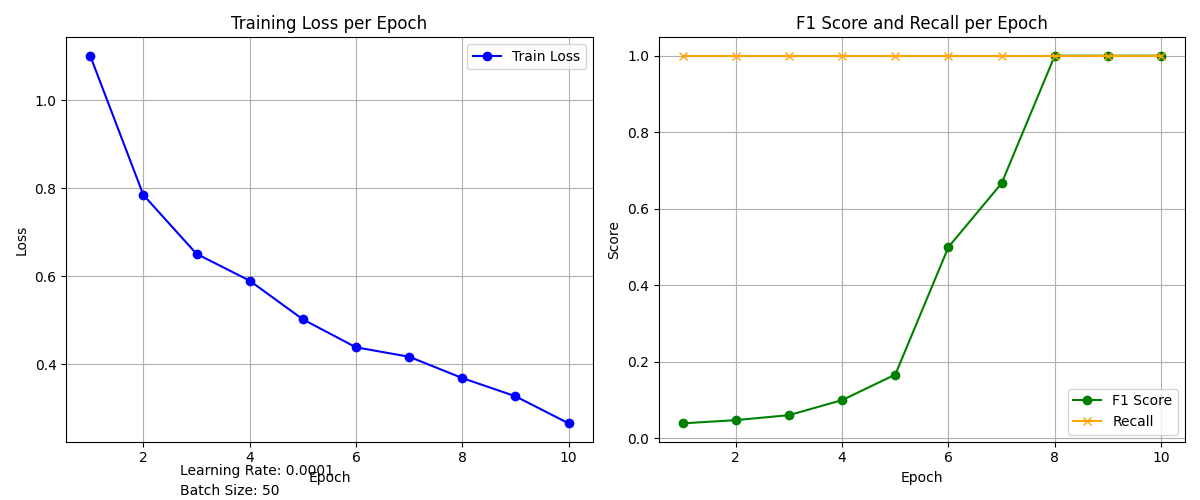
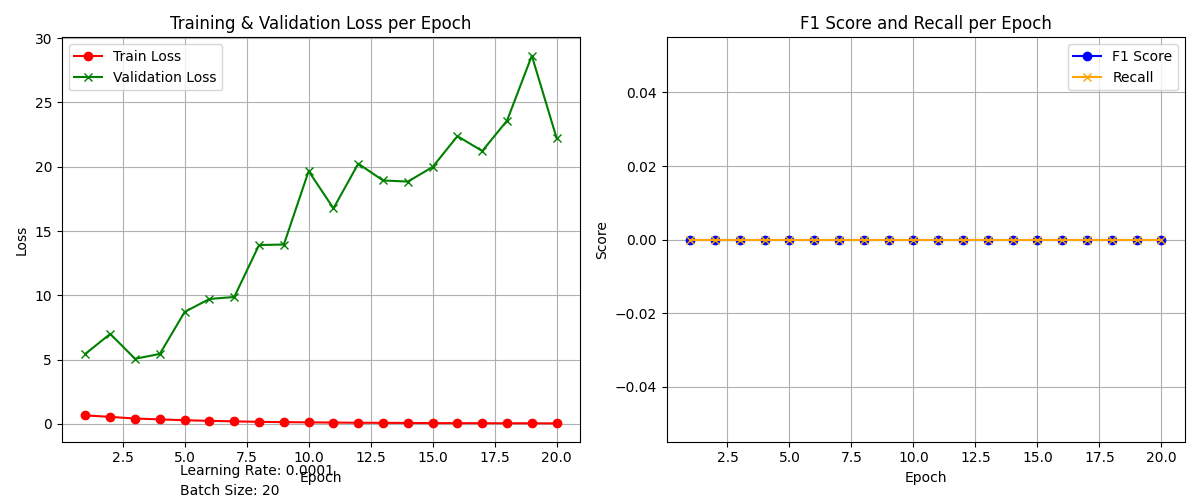
Data Processing split

diff --git a/src/main.py b/src/main.py
@@ -14,35 +14,37 @@ from utils.loggers import Logger
 from utils.helper import compute_class_weights
 import random
 from torch.utils.data import Subset
+import matplotlib.pyplot as plt
 
-batch_size = 50
+batch_size = 64
 learning_rate = 0.0001
-num_epochs = 10
+num_epochs = 5
 thresh_hold = 0.5                                                                                                                                                              
 device = torch.device("cuda" if torch.cuda.is_available() else "cpu")
 
 
 import matplotlib.pyplot as plt
 
-def plot_training_metrics(train_losses, f1_scores, recall_scores):
+def plot_training_metrics(train_losses, f1_scores, recall_scores, validation_losses):
     import matplotlib
-    min_len = min(len(train_losses), len(f1_scores), len(recall_scores))
+    min_len = min(len(train_losses), len(validation_losses), len(f1_scores), len(recall_scores))
     epochs = range(1, min_len + 1)
 
     plt.figure(figsize=(12, 5))
 
-    # Plot Training Loss
+    # Plot Training and Validation Loss on same plot
     plt.subplot(1, 2, 1)
-    plt.plot(epochs, train_losses[:min_len], label='Train Loss', marker='o', color='blue')
+    plt.plot(epochs, train_losses[:min_len], label='Train Loss', marker='o', color='red')
+    plt.plot(epochs, validation_losses[:min_len], label='Validation Loss', marker='x', color='green')
     plt.xlabel('Epoch')
     plt.ylabel('Loss')
-    plt.title('Training Loss per Epoch')
+    plt.title('Training & Validation Loss per Epoch')
     plt.legend()
     plt.grid(True)
 
     # Plot F1 Score and Recall
     plt.subplot(1, 2, 2)
-    plt.plot(epochs, f1_scores[:min_len], label='F1 Score', marker='o', color='green')
+    plt.plot(epochs, f1_scores[:min_len], label='F1 Score', marker='o', color='blue')
     plt.plot(epochs, recall_scores[:min_len], label='Recall', marker='x', color='orange')
     plt.xlabel('Epoch')
     plt.ylabel('Score')
@@ -59,21 +61,19 @@ def plot_training_metrics(train_losses, f1_scores, recall_scores):
     plt.savefig(save_path)
     print(f"[INFO] Training plot saved to: {save_path}")
 
-    # Only show if in an interactive environment
     if matplotlib.is_interactive():
         plt.show()
 
 
-def test(model, test_dataloader, criterion):
-    """Run inference on the test dataset and compute metrics."""
+def evaluate(model, dataloader, criterion, name="Validation"):
     model.eval()
     running_loss = 0.0
     all_labels = []
     all_preds = []
     all_probs = []
 
-    with torch.no_grad():  # No gradient tracking during testing
-        for images, labels in test_dataloader:
+    with torch.no_grad():
+        for images, labels in dataloader:
             images, labels = images.to(device), labels.float().to(device)
             labels = labels.view(-1, 1)
 
@@ -88,19 +88,19 @@ def test(model, test_dataloader, criterion):
             all_preds.extend(preds)
             all_probs.extend(probs)
 
-    # Compute evaluation metrics
-    test_loss = running_loss / len(test_dataloader)
-    test_f1 = f1_score(all_labels, all_preds)
-    test_recall = recall_score(all_labels, all_preds)
-    test_auc = roc_auc_score(all_labels, all_probs)
+    val_loss = running_loss / len(dataloader)
+    val_f1 = f1_score(all_labels, all_preds)
+    val_recall = recall_score(all_labels, all_preds)
+    val_auc = roc_auc_score(all_labels, all_probs)
 
-    print("\nTest Set Evaluation:")
-    print(f"Test Loss   : {test_loss:.4f}")
-    print(f"Test F1     : {test_f1:.4f}")
-    print(f"Test Recall : {test_recall:.4f}")
-    print(f"Test AUC    : {test_auc:.4f}\n")
+    print(f"\n{name} Evaluation:")
+    print(f"{name} Loss   : {val_loss:.4f}")
+    print(f"{name} F1     : {val_f1:.4f}")
+    print(f"{name} Recall : {val_recall:.4f}")
+    print(f"{name} AUC    : {val_auc:.4f}")
 
- 
+    return val_loss
+
 
 def init():
     log_name = "Training_" + datetime.now().strftime("%Y%m%d_%H%M%S") + "_data_sampling"
@@ -113,6 +113,7 @@ def init():
     f1_scores = []
     recall_scores = []
     train_losses = []
+    validation_losses = []
 
 
     # Path to CSV and folder
@@ -140,18 +141,23 @@ def init():
 
     # full_dataset = ImagesDataset(data_folder, data_csv, transform_for_label_0, transform_for_label_1)
 
-    random.seed(42)
-    # Assume full_dataset is already created
-    indices = random.sample(range(len(full_dataset)), 100)
-    full_dataset = Subset(full_dataset, indices)
+    # random.seed(42)
+
+    # # Assume full_dataset is already created
+    # indices = random.sample(range(len(full_dataset)), 100)
+    # full_dataset = Subset(full_dataset, indices)
 
     # Split: 80% train, 20% validation
+    # Split: 70% train, 15% validation, 15% test
     total_size = len(full_dataset)
-    train_size = int(0.8 * total_size)
-    test_size = total_size - train_size
-    train_dataset, test_dataset = random_split(full_dataset, [train_size, test_size])
+    train_size = int(0.7 * total_size)
+    val_size = int(0.15 * total_size)
+    test_size = total_size - train_size - val_size  # ensures total consistency
+
+    train_dataset, val_dataset, test_dataset = random_split(full_dataset, [train_size, val_size, test_size])
 
     train_dataloader = DataLoader(train_dataset, batch_size=batch_size, shuffle=True)
+    val_dataloader = DataLoader(val_dataset, batch_size=batch_size, shuffle=False)
     test_dataloader = DataLoader(test_dataset, batch_size=batch_size, shuffle=False)
 
     model = DenseNet().to(device)
@@ -167,7 +173,9 @@ def init():
 
     print(f"Total Samples      : {total_size}")
     print(f"Training Samples   : {train_size}")
+    print(f"Validation Samples : {val_size}")
     print(f"Testing Samples : {test_size}")
+    
 
 
     for epoch in range(num_epochs):
@@ -207,7 +215,6 @@ def init():
         recall = recall_score(all_labels, all_preds)        
         auc = roc_auc_score(all_labels, all_probs)
         epoch_loss = running_loss / len(train_dataloader)
-        # epoch_loss = running_loss / len(train_dataloader)
         train_losses.append(epoch_loss) 
         f1_scores.append(f1)
         recall_scores.append(recall)
@@ -217,11 +224,14 @@ def init():
         print(f"Train F1     : {f1:.4f}")
         print(f"Train Recall : {recall:.4f}")
         print(f"Train AUC    : {auc:.4f}\n")
+
+        validationLoss = evaluate(model, val_dataloader, criterion, name="Validation")
+        validation_losses.append(validationLoss)
     
     end_time = datetime.now()
     print(f"Training ended at: {end_time.strftime('%Y-%m-%d %H:%M:%S')}")
 
-    plot_training_metrics(train_losses, f1_scores, recall_scores)
+    plot_training_metrics(train_losses, f1_scores, recall_scores, validation_losses)
 
     # ✅ Save the trained model
     # model_save_path = "/user/HS401/kk01579/APML_PROJECT/saved_models/densenet121_samplying.pth"
@@ -234,8 +244,7 @@ def init():
     testing_started = datetime.now()
     print(f"Testing started at: {testing_started.strftime('%Y-%m-%d %H:%M:%S')}")
 
-    # Evaluate on Validation Set
-    test(model, test_dataloader, criterion)
+    evaluate(model, test_dataloader, criterion, name="Test")
 
 
 if __name__ == "__main__":

diff --git a/src/dataset_processing/images_dataset.py b/src/dataset_processing/images_dataset.py
@@ -10,6 +10,9 @@ class ImagesDataset(Dataset):
 
         self.image_names = self.data['image_name'].tolist()
         self.labels = self.data['target'].tolist()
+        self.ages = self.data['age_approx'].tolist()
+        self.sex = self.data['sex']
+        self.patientsIds = self.data['patient_id']
 
         self.transform_label_zero = transform_for_label_0
         self.transform_label_one = transform_for_label_1
